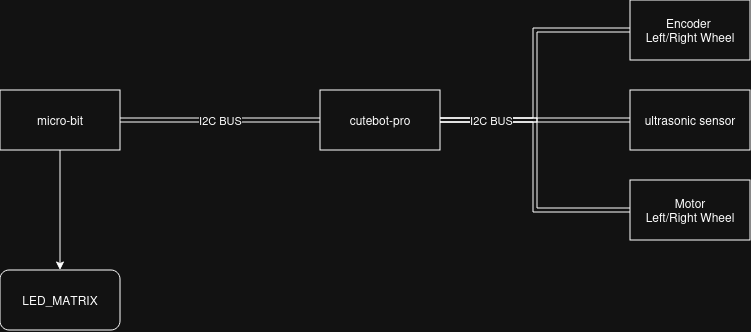
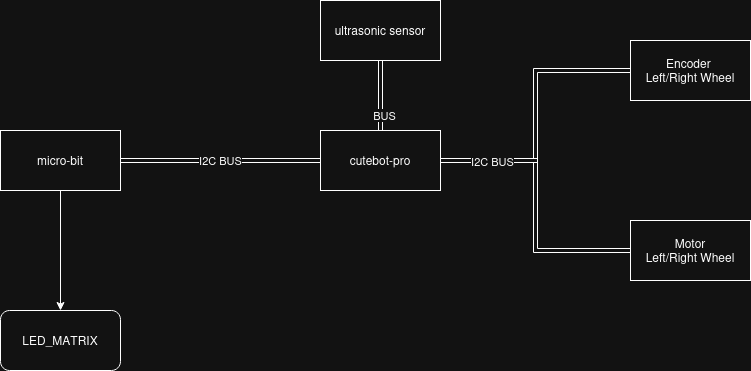
writing documentation

diff --git a/readme.md b/readme.md
@@ -16,22 +16,9 @@ To build and flash this project you need **SEGGER Embedded Studio (SES)** accord
     - **J-Link Software Pack** (for flashing/debugging with SEGGER)
 4. Launch SES and verify it starts correctly.
 
-### Architecture Used:
+### Architecture overview:
 
 <img src=arch-project.png>
-
-
-## Communication (I2C)
-We used **I2C** to send commands from the controller to the Cutebot Pro, such as basic motion and control instructions.
-
-## Sensing (Ultrasonic)
-We used an **ultrasonic sensor** to detect and locate objects within the square map by measuring distance to nearby obstacles.
-
-
-## How it works
-
-When the robot starts, it begins at the base position **(0,0)**. It then sweeps across the entire grid map to search for objects. Once an object is detected, its position is displayed on the **LED map**. After completing the scan, the robot returns to the initial base at **(0,0)**.
-
 
 ### Logic Architecture
  ```text
@@ -44,7 +31,277 @@ When the robot starts, it begins at the base position **(0,0)**. It then sweeps 
 
 ```
 
+## Communication (I2C)
+We used **I2C** to send commands from the controller to the Cutebot Pro, such as basic motion and control instructions.
 
+## API Overview (I²C + Motion Control Helpers)
+
+This header-style snippet declares a small set of low-level I²C helpers plus higher-level motor/steering primitives. Implementations are typically split between:
+- **I²C transport**: initializes the bus, sends raw buffers, and reads single bytes from a device register/address.
+- **Motion layer**: converts user-friendly units (degrees, centimeters) into actuator commands, often via I²C writes to a motor/servo controller.
+
+### I²C functions
+
+- **`i2c_init()`**  
+    Initializes the I²C peripheral and configures the required GPIO pins/pull-ups. Implementation usually sets bus speed (e.g., 100 kHz / 400 kHz) and enables the controller.
+
+- **`i2c_send(uint8_t* buf, uint8_t buflen)`**  
+    Sends a raw byte buffer over I²C.
+
+- **`i2c_read_u8(uint8_t addr)`**  
+    Reads and returns one byte from the given I²C device/register.
+
+### Motion / control functions
+
+- **`read_speed_raw(uint8_t motor)`**  
+    Returns a motor speed value in **raw units** (controller/encoder dependent). Implementation typically queries a motor driver over I²C and returns the unscaled register value.
+
+- **`trolley_steering(uint8_t turn, uint16_t angle)`**  
+    Commands the steering mechanism: `turn` likely encodes direction (e.g., left/right/center) and `angle` is a target angle in controller units (or degrees if mapped). Implementation generally clamps to safe limits and writes a servo position setpoint.
+
+- **`angle_run(uint8_t wheel, int16_t angle_deg)`**  
+    Commands a specific wheel to rotate to/through an angle in **degrees**. Implementation usually converts degrees to ticks/steps, applies sign for direction, and issues a motion command.
+
+- **`move_distance(uint8_t direction, uint8_t distance_cm)`**  
+    Moves the platform a given distance in **centimeters**, with `direction` selecting forward/backward. Implementation typically converts distance to encoder counts and performs a closed-loop or timed move.
+
+### Timing helpers
+
+- **`delay_ms(uint32_t ms)` / `delay_us(uint32_t us)`**  
+    Busy-wait or timer-backed delays used to meet peripheral timing requirements (e.g., I²C settle times, actuator update pacing). Implementations should be used carefully in real-time code to avoid blocking critical tasks.
+
+> Notes: Exact units and valid ranges depend on the underlying motor/servo controller and how the I²C protocol is defined. Consider documenting expected ranges (e.g., max steering angle, motor indices) once confirmed from the implementation.
+### API (quick)
+
+
+```c
+// I2C
+void i2c_init(void);
+void i2c_send(uint8_t* buf, uint8_t buflen);
+uint8_t i2c_read_u8(uint8_t addr);
+
+// Motion
+uint8_t read_speed_raw(uint8_t motor);
+void trolley_steering(uint8_t turn, uint16_t angle);
+void angle_run(uint8_t wheel, int16_t angle_deg);
+void move_distance(uint8_t direction, uint8_t distance_cm);
+
+// Delays
+void delay_ms(uint32_t ms);
+void delay_us(uint32_t us);
+```
+
+## Sensing (Ultrasonic)
+We used an **ultrasonic sensor** to detect and locate objects within the square map by measuring distance to nearby obstacles.
+
+
+In this library, he provides distance measurement using an ultrasonic sensor (e.g. HC-SR04) with the Nordic Semiconductor timer for microsecond timing.
+
+- **`sonar_init()`**: 
+    Configures trigger and echo GPIO pins, then initializes TIMER0 at 1 MHz (1 µs resolution).
+
+- **`fetch_current_time_us()` (internal helper)**
+    Captures and returns the current timer value in microseconds.
+
+- **`get_sonar_distance_cm()`**
+    Sends a 10 µs trigger pulse, measures the echo pulse width, and converts it to distance in centimeters.
+Returns the measured distance, or 999 if a timeout occurs (no echo / out of range).
+
+### Notes:
+
+Echo timeout: 5 ms (signal start), 25 ms (signal end, ~430 cm max range).
+Distance is calculated using: distance_cm = echo_time_us / 58.
+Includes a 100 ms delay between measurements.
+
+
+
+## Led Matrix - Overview
+
+Each LED in the matrix is located at the intersection of **Row pins (Y-axis)** select the active row and after **Column pins (X-axis)**  that select the active column. An LED lights up when:  Row = HIGH, Column = LOW  
+
+## API Reference
+
+**`void led_init(void)`**:
+- Configures all row pins as outputs and sets them LOW (off), then  configures all column pins as outputs and sets them HIGH (off)
+
+**`void clear_leds(void)`**
+Turns off all LEDs on the matrix.  Setting all row pins LOW and all column pins HIGH.
+**`void map_led_location(int x, int y)`**
+Lights a single LED at position `(x, y)`.
+
+**Behavior:**
+1. Clears the entire display
+2. Activates the selected row (sets it HIGH)
+3. Activates the selected column (sets it LOW)
+4. Lights only the LED at the intersection
+
+### Pin Mapping
+
+#### Rows (Y-axis)
+| Y | GPIO Pin |
+|---|----------|
+| 0 | P0.19 |
+| 1 | P0.24 |
+| 2 | P0.15 |
+| 3 | P0.22 |
+| 4 | P0.21 |
+
+#### Columns (X-axis)
+| X | GPIO Pin |
+|---|----------|
+| 0 | P0.30 |
+| 1 | P1.05 |
+| 2 | P0.31 |
+| 3 | P0.11 |
+| 4 | P0.28 |
+
+
+
+# Robot Mapping & Navigation Module
+
+This module implements a simple **grid-based robot navigation and exploration system** using: 
+- A global map representation
+- Heading-based movement logic
+- Obstacle detection via sonar
+- Automatic return-to-base behavior
+
+The robot operates on a **2D grid (`MAP_GRID_SIZE × MAP_GRID_SIZE`)** and maintains:
+
+- Current position: `(robot_pos_x, robot_pos_y)`
+- Current heading: `NORTH`, `SOUTH`, `EAST`, `WEST`
+- A global map storing explored/unknown/occupied cells
+
+It integrates with:
+- Motor control (`move_distance`, `trolley_steering`)
+- Ultrasonic sensor (`get_sonar_distance_cm`)
+- LED display (`map_led_location`)
+
+
+## Global State
+
+- `robot_pos_x, robot_pos_y` → current robot position
+- `robot_heading` → current direction
+- `global_map[][]` → grid map of environment
+
+## Map Functions
+
+- **`map_init()`**
+Initializes the entire grid as `unknown`.
+
+- **`mark_field(x, y, field)`**
+Marks a cell in the map, ignores invalid coordinates, updates `global_map[x][y]`.
+
+- **`get_field(x, y)`**
+Returns the value of a map cell and returns `-1` if out of bounds
+
+- **`is_valid_cell(x, y)`**
+Checks whether a coordinate is inside the grid.
+
+
+## Movement Helpers
+
+- **`get_next_cell(x, y, dir, *next_x, *next_y)`**
+Computes the next grid cell based on direction:
+
+| Heading | Next cell update |
+|---------|-------------------|
+| NORTH   | `y--`             |
+| SOUTH   | `y++`             |
+| EAST    | `x++`             |
+| WEST    | `x--`             |
+
+
+## Robot Navigation
+
+- **`rotate_to(target)`**
+Rotates robot to face a target direction.
+
+**Logic:**
+- Computes difference between current and target heading
+- Chooses - right turn (90°), Left turn (90°), and 180° turn.
+- Updates `robot_heading`
+
+- **`update_position()`**
+Updates robot coordinates after movement.
+- Predicts next cell based on heading
+- Rejects moves outside grid
+- Updates position if valid
+- Marks new cell as `explored`
+
+
+- **`move_one_cell_forward()`**
+Moves robot one grid cell forward.
+Steps:
+1. Ensures correct orientation
+2. Moves physical distance (`CELL_CM`)
+3. Updates internal position
+
+
+## Obstacle Detection
+
+### `check_obstacle_ahead()`
+Uses ultrasonic sensor to detect obstacles.
+
+
+## Exploration Behavior
+
+### `explore_grid()`
+Main exploration algorithm (zig-zag scan).
+
+**Flow:**
+1. Start at `(0,0)` facing EAST
+2. Traverse row by row:
+   - Move across full row
+   - At row end:
+     - Move down one cell
+     - Reverse direction (zig-zag pattern)
+3. Continuously checks for obstacles
+
+**If obstacle detected:**
+- Stops exploration
+- Marks LED position
+- Calls `return_to_base()`
+
+## Return-to-Base
+
+### `return_to_base()`
+Navigates robot back to `(0,0)`.
+
+Steps:
+1. Rotate NORTH and move to top row
+2. Rotate WEST and move to left column
+3. Reach origin `(0,0)`
+4. Perform a simple “celebration” rotation sequence
+
+
+## Map States
+
+Typical `field_t` values:
+- `unknown` → unexplored
+- `explored` → visited
+- `occuppied` → obstacle detected
+
+
+## Key Behaviors
+
+- Grid-based navigation (no continuous coordinates)
+- Zig-zag exploration pattern
+- Immediate obstacle reaction
+- Automatic recovery by returning to base
+- Real-time map updates
+
+
+## Notes
+
+- The robot assumes a fully discrete grid world.
+- Obstacle detection is threshold-based (not probabilistic).
+- Exploration stops immediately on first detected obstacle.
+- Map updates are internal only (no persistence).
+
+
+## How it works
+
+When the robot starts, it begins at the base position **(0,0)**. It then sweeps across the entire grid map to search for objects. Once an object is detected, its position is displayed on the **LED map**. After completing the scan, the robot returns to the initial base at **(0,0)**.
 
 
 ## Notes
@@ -53,7 +310,6 @@ When the robot starts, it begins at the base position **(0,0)**. It then sweeps 
 - Ultrasonic ranging is used for object detection on the map.
 - The controller runs a simple state machine (e.g., **explore → avoid → scan → approach**) and sends the corresponding I2C commands to the robot.
 - Motion commands include **forward/backward**, **turn left/right**, **stop**, and **speed control**; these are encoded as small command packets over I2C.
-
 
 
 